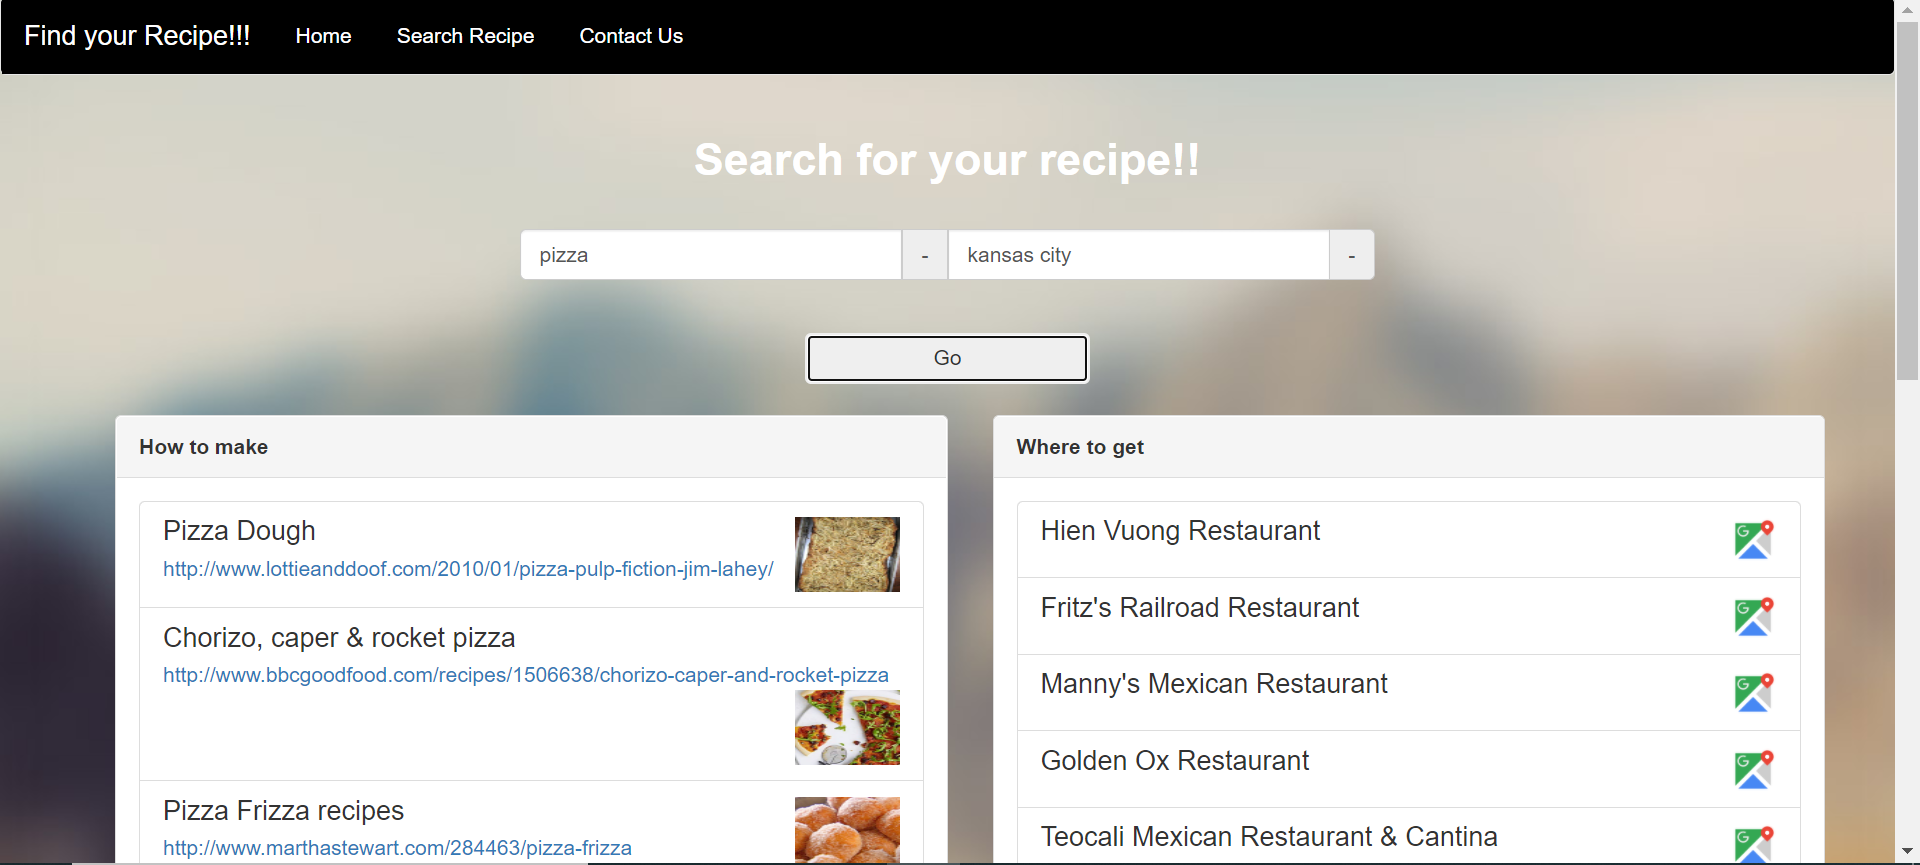
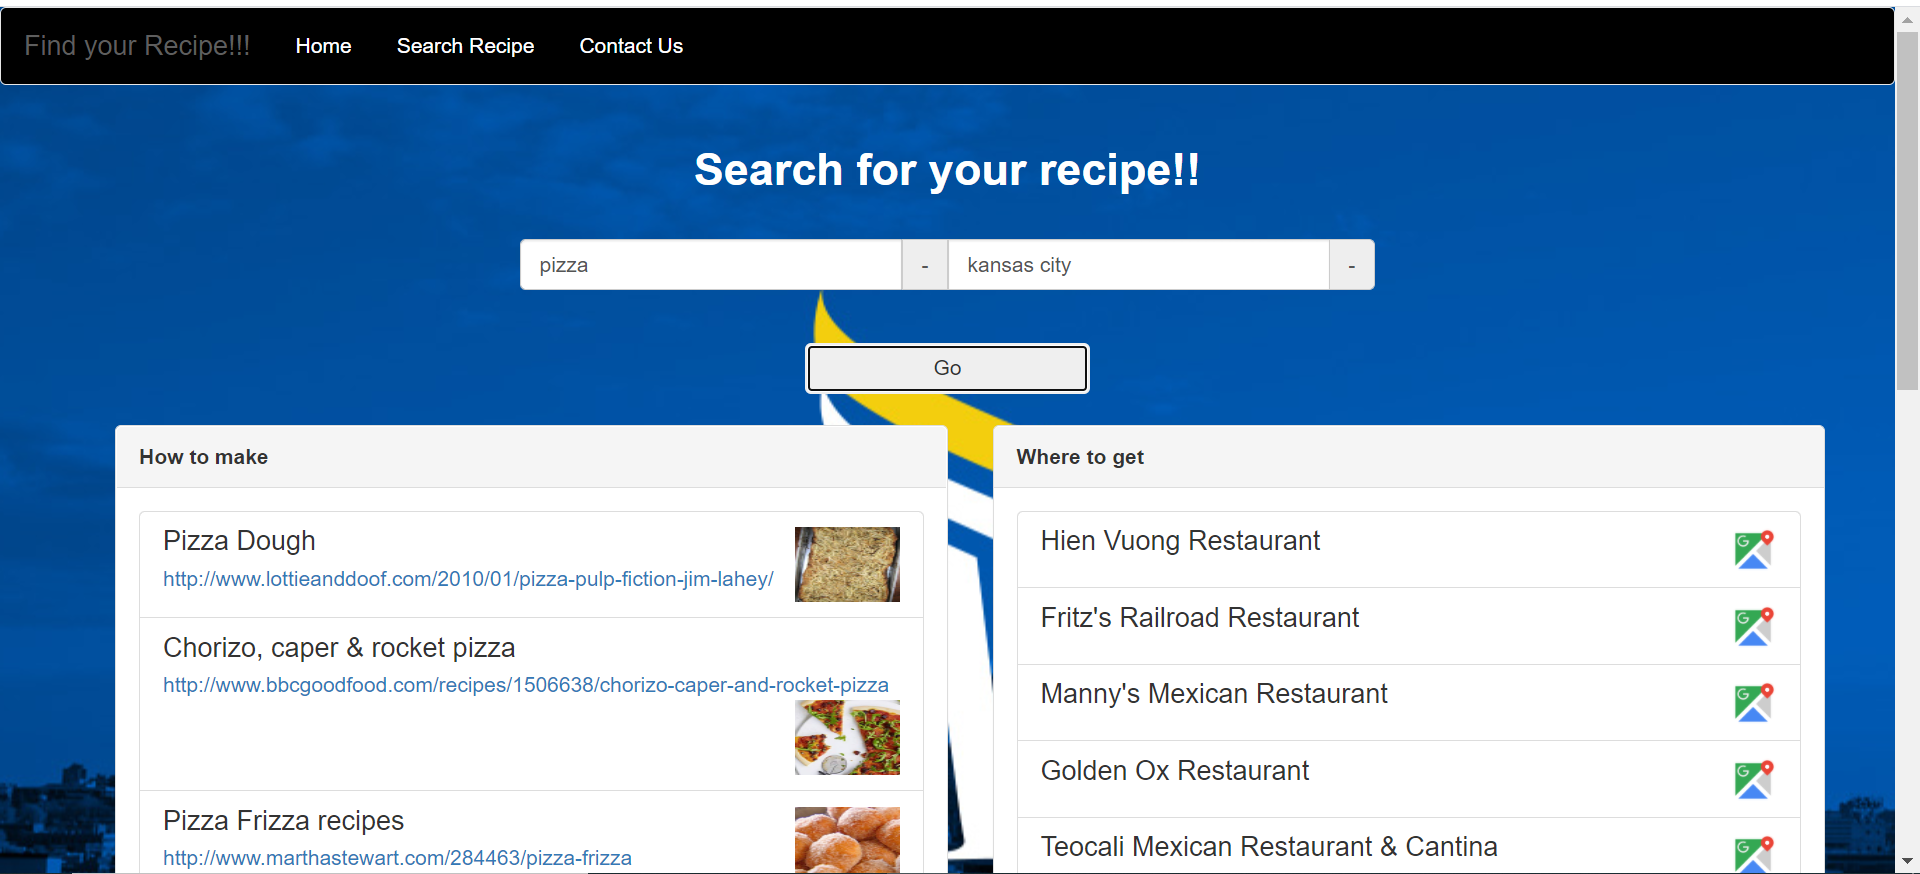
ICP 6

diff --git a/ICP6/Source/MashUp/src/app/app.component.css b/ICP6/Source/MashUp/src/app/app.component.css
@@ -1,5 +1,5 @@
 .image{
   height:60em; background-size:cover; width:100%;
-  background-image:url('~images/bg.jpg');
+  background-image:url('~images/1.jpg');
   background-position:50% 50%;
 }
